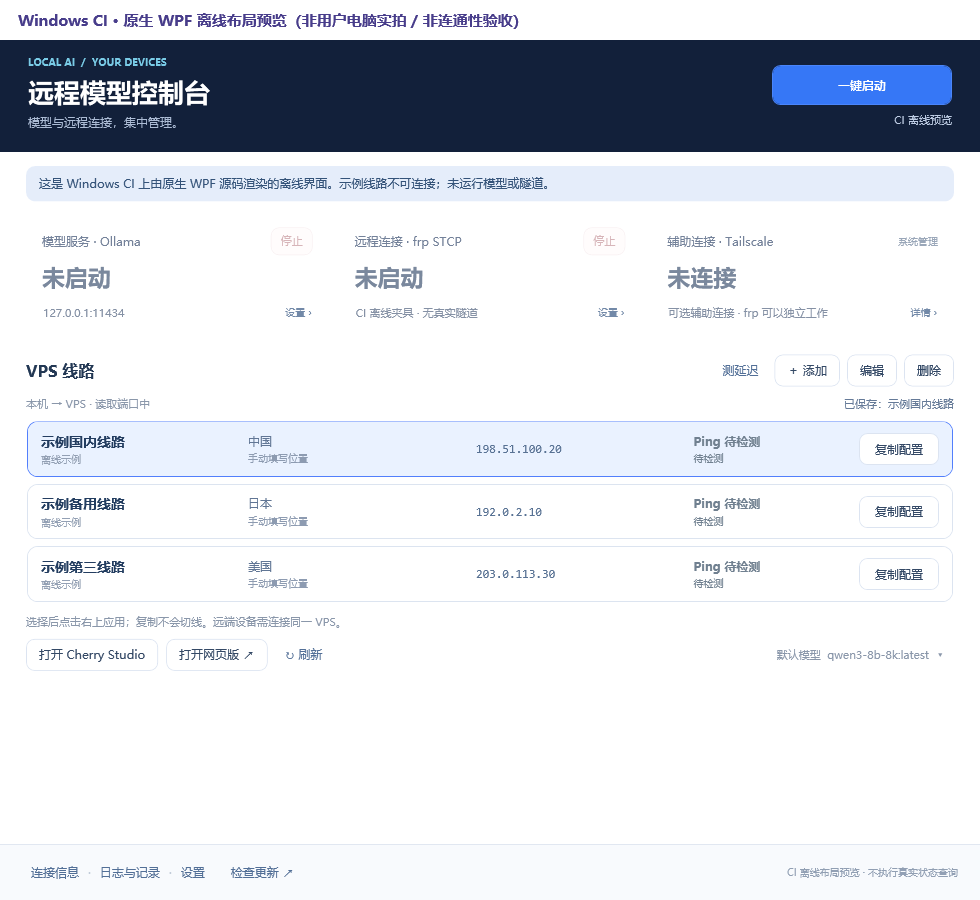
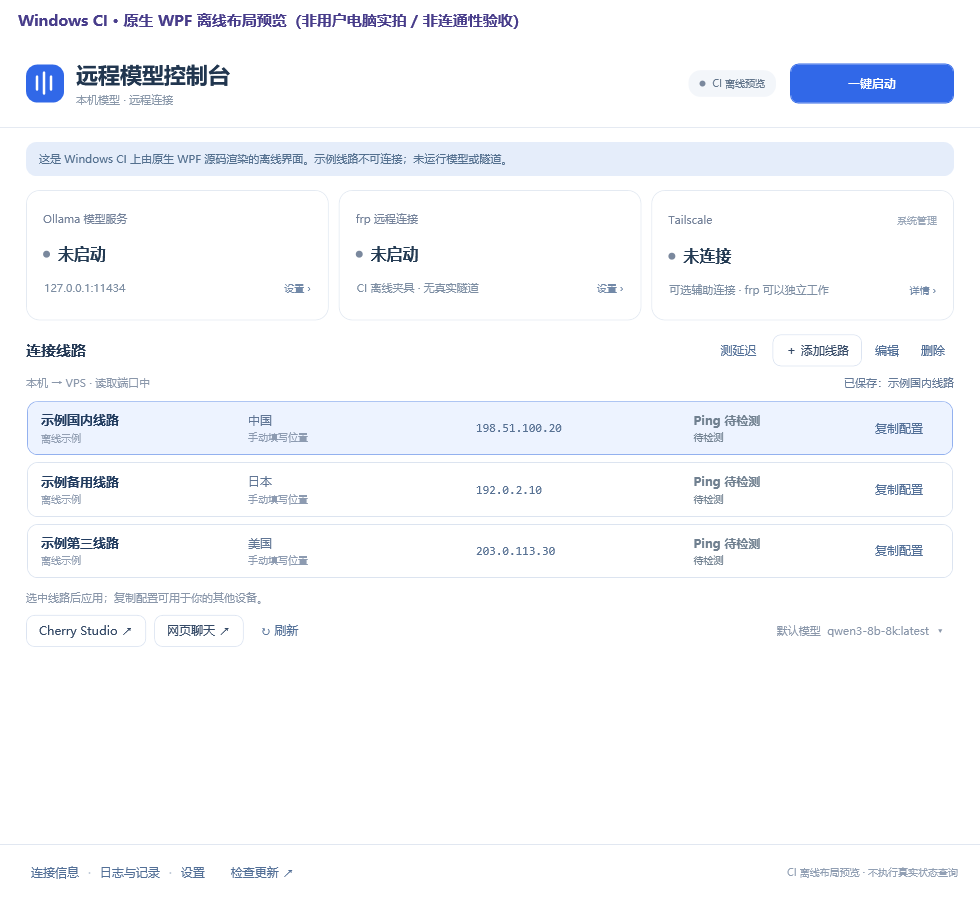
Refine console visuals and add verified one-click service stop

diff --git a/windows/local-model-console/LocalAI.UI.xaml b/windows/local-model-console/LocalAI.UI.xaml
@@ -1,6 +1,6 @@
 <Window xmlns="http://schemas.microsoft.com/winfx/2006/xaml/presentation" xmlns:x="http://schemas.microsoft.com/winfx/2006/xaml"
- Title="远程模型控制台" Width="1000" Height="760" MinWidth="900" MinHeight="650" WindowStartupLocation="CenterScreen"
- Background="#F3F6FB" FontFamily="Microsoft YaHei UI" FontSize="13" UseLayoutRounding="True">
+ Title="远程模型控制台" Width="1000" Height="740" MinWidth="900" MinHeight="650" WindowStartupLocation="CenterScreen"
+ Background="#F6F8FB" FontFamily="Microsoft YaHei UI" FontSize="13" UseLayoutRounding="True">
  <Window.Resources>
   <Style TargetType="Button">
    <Setter Property="HorizontalContentAlignment" Value="Center"/><Setter Property="Height" Value="32"/><Setter Property="Padding" Value="12,0"/><Setter Property="Cursor" Value="Hand"/>
@@ -8,36 +8,50 @@
    <Setter Property="Template"><Setter.Value><ControlTemplate TargetType="Button"><Border x:Name="Body" Background="{TemplateBinding Background}" BorderBrush="{TemplateBinding BorderBrush}" BorderThickness="1" CornerRadius="8" Padding="{TemplateBinding Padding}"><ContentPresenter HorizontalAlignment="{TemplateBinding HorizontalContentAlignment}" VerticalAlignment="Center"/></Border><ControlTemplate.Triggers><Trigger Property="IsMouseOver" Value="True"><Setter TargetName="Body" Property="Opacity" Value="0.75"/></Trigger><Trigger Property="IsEnabled" Value="False"><Setter TargetName="Body" Property="Opacity" Value="0.4"/></Trigger><Trigger Property="IsKeyboardFocused" Value="True"><Setter TargetName="Body" Property="BorderBrush" Value="#2563EB"/><Setter TargetName="Body" Property="BorderThickness" Value="2"/></Trigger></ControlTemplate.Triggers></ControlTemplate></Setter.Value></Setter>
   </Style>
   <Style x:Key="LinkButton" TargetType="Button" BasedOn="{StaticResource {x:Type Button}}"><Setter Property="Background" Value="Transparent"/><Setter Property="BorderBrush" Value="Transparent"/><Setter Property="Foreground" Value="#526F97"/><Setter Property="FontSize" Value="12"/><Setter Property="Padding" Value="8,0"/></Style>
-  <Style x:Key="StopControl" TargetType="Button" BasedOn="{StaticResource {x:Type Button}}"><Setter Property="Foreground" Value="#9C4650"/><Setter Property="Background" Value="#FFF8F8"/><Setter Property="BorderBrush" Value="#F0DDE0"/><Setter Property="FontSize" Value="11"/><Setter Property="Height" Value="28"/><Setter Property="Padding" Value="9,0"/></Style>
+  <Style x:Key="StopControl" TargetType="Button" BasedOn="{StaticResource {x:Type Button}}">
+   <Setter Property="Foreground" Value="#77869A"/><Setter Property="Background" Value="Transparent"/><Setter Property="BorderBrush" Value="Transparent"/><Setter Property="FontSize" Value="11"/><Setter Property="Height" Value="26"/><Setter Property="Padding" Value="9,0"/>
+   <Style.Triggers><Trigger Property="IsMouseOver" Value="True"><Setter Property="Background" Value="#FFF0F1"/><Setter Property="Foreground" Value="#BE4558"/></Trigger></Style.Triggers>
+  </Style>
+  <Style TargetType="TextBox"><Setter Property="Background" Value="White"/><Setter Property="BorderBrush" Value="#DCE4EF"/><Setter Property="BorderThickness" Value="1"/><Setter Property="Foreground" Value="#273B53"/><Setter Property="Padding" Value="10,7"/>
+   <Setter Property="Template"><Setter.Value><ControlTemplate TargetType="TextBox"><Border x:Name="InputBorder" Background="{TemplateBinding Background}" BorderBrush="{TemplateBinding BorderBrush}" BorderThickness="{TemplateBinding BorderThickness}" CornerRadius="8"><ScrollViewer x:Name="PART_ContentHost" Margin="{TemplateBinding Padding}"/></Border><ControlTemplate.Triggers><Trigger Property="IsKeyboardFocusWithin" Value="True"><Setter TargetName="InputBorder" Property="BorderBrush" Value="#6C97ED"/></Trigger></ControlTemplate.Triggers></ControlTemplate></Setter.Value></Setter>
+  </Style>
+  <Style TargetType="ComboBox"><Setter Property="Background" Value="White"/><Setter Property="BorderBrush" Value="#DCE4EF"/><Setter Property="Foreground" Value="#273B53"/><Setter Property="MinHeight" Value="36"/>
+   <Setter Property="Template"><Setter.Value><ControlTemplate TargetType="ComboBox"><Grid>
+    <Border x:Name="SelectBorder" CornerRadius="8" Background="{TemplateBinding Background}" BorderBrush="{TemplateBinding BorderBrush}" BorderThickness="1"><Grid><ContentPresenter Content="{TemplateBinding SelectionBoxItem}" ContentTemplate="{TemplateBinding SelectionBoxItemTemplate}" Margin="11,0,32,0" VerticalAlignment="Center" IsHitTestVisible="False"/><ToggleButton Focusable="False" IsChecked="{Binding IsDropDownOpen, RelativeSource={RelativeSource TemplatedParent}, Mode=TwoWay}" ClickMode="Press"><ToggleButton.Template><ControlTemplate TargetType="ToggleButton"><Border Background="Transparent"><Path Data="M 0,0 L 4,4 L 8,0" Stroke="#8393A7" StrokeThickness="1.5" HorizontalAlignment="Right" VerticalAlignment="Center" Margin="0,0,13,0"/></Border></ControlTemplate></ToggleButton.Template></ToggleButton></Grid></Border>
+    <Popup x:Name="PART_Popup" Placement="Bottom" IsOpen="{TemplateBinding IsDropDownOpen}" AllowsTransparency="True" Focusable="False" PopupAnimation="Fade"><Border Background="White" BorderBrush="#DCE4EF" BorderThickness="1" CornerRadius="9" Margin="0,4,0,0" Padding="4" MinWidth="{Binding ActualWidth, RelativeSource={RelativeSource TemplatedParent}}"><ScrollViewer MaxHeight="220" CanContentScroll="True"><ItemsPresenter KeyboardNavigation.DirectionalNavigation="Contained"/></ScrollViewer></Border></Popup>
+   </Grid><ControlTemplate.Triggers><Trigger Property="IsKeyboardFocusWithin" Value="True"><Setter TargetName="SelectBorder" Property="BorderBrush" Value="#6C97ED"/></Trigger><Trigger Property="IsEnabled" Value="False"><Setter Property="Opacity" Value="0.5"/></Trigger></ControlTemplate.Triggers></ControlTemplate></Setter.Value></Setter>
+  </Style>
+  <Style TargetType="ComboBoxItem"><Setter Property="Padding" Value="10,7"/><Setter Property="HorizontalContentAlignment" Value="Stretch"/><Setter Property="Template"><Setter.Value><ControlTemplate TargetType="ComboBoxItem"><Border x:Name="Option" Background="Transparent" Padding="{TemplateBinding Padding}" CornerRadius="6"><ContentPresenter/></Border><ControlTemplate.Triggers><Trigger Property="IsHighlighted" Value="True"><Setter TargetName="Option" Property="Background" Value="#F1F5FB"/></Trigger><Trigger Property="IsSelected" Value="True"><Setter TargetName="Option" Property="Background" Value="#EAF1FF"/><Setter Property="Foreground" Value="#2B60C5"/></Trigger></ControlTemplate.Triggers></ControlTemplate></Setter.Value></Setter></Style>
+
  </Window.Resources>
- <Grid><Grid.RowDefinitions><RowDefinition Height="112"/><RowDefinition Height="*"/><RowDefinition Height="56"/></Grid.RowDefinitions>
-  <Border Background="#12203A" Padding="28,16"><Grid><Grid.ColumnDefinitions><ColumnDefinition Width="*"/><ColumnDefinition Width="252"/></Grid.ColumnDefinitions>
-   <StackPanel><TextBlock Text="LOCAL AI  /  YOUR DEVICES" FontSize="10" FontWeight="Bold" Foreground="#79CBE6" Margin="0,0,0,7"/><TextBlock Text="远程模型控制台" FontSize="26" FontWeight="Bold" Foreground="White"/><TextBlock Text="模型与远程连接，集中管理。" Foreground="#ACBCD5" Margin="0,6,0,0" FontSize="12"/></StackPanel>
-   <StackPanel Grid.Column="1" HorizontalAlignment="Right" VerticalAlignment="Center"><Button x:Name="StartButton" Content="一键启动" Height="40" MinWidth="180" Background="#3677F6" BorderBrush="#4A85FA" Foreground="White" FontWeight="Bold" AutomationProperties.Name="一键启动模型与隧道"/><TextBlock x:Name="HeaderState" Text="正在检查服务" Foreground="#BECDE4" FontSize="11" TextAlignment="Right" TextWrapping="Wrap" MaxWidth="250" Margin="0,8,0,0"/></StackPanel>
+ <Grid><Grid.RowDefinitions><RowDefinition Height="88"/><RowDefinition Height="*"/><RowDefinition Height="56"/></Grid.RowDefinitions>
+  <Border Background="White" BorderBrush="#E5EAF2" BorderThickness="0,0,0,1" Padding="26,16"><Grid><Grid.ColumnDefinitions><ColumnDefinition Width="*"/><ColumnDefinition Width="Auto"/></Grid.ColumnDefinitions>
+   <StackPanel Orientation="Horizontal" VerticalAlignment="Center"><Border Width="38" Height="38" CornerRadius="11" Background="#3168E8" Margin="0,0,12,0"><Path Data="M 11,12 L 11,25 M 18,8 L 18,29 M 25,12 L 25,25" Stroke="White" StrokeThickness="2.5" StrokeStartLineCap="Round" StrokeEndLineCap="Round"/></Border><StackPanel><TextBlock Text="远程模型控制台" FontSize="22" FontWeight="SemiBold" Foreground="#21364F"/><TextBlock Text="本机模型 · 远程连接" Foreground="#8A98AA" Margin="0,4,0,0" FontSize="11"/></StackPanel></StackPanel>
+   <StackPanel Grid.Column="1" Orientation="Horizontal" VerticalAlignment="Center"><Border Background="#F3F6FA" CornerRadius="12" Padding="11,7" Margin="0,0,14,0" VerticalAlignment="Center"><StackPanel Orientation="Horizontal"><Ellipse x:Name="HeaderDot" Width="6" Height="6" Fill="#A6B1C1" Margin="0,0,7,0" VerticalAlignment="Center"/><TextBlock x:Name="HeaderState" Text="正在检查服务" Foreground="#64778D" FontSize="10" TextWrapping="Wrap" MaxWidth="195" VerticalAlignment="Center"/></StackPanel></Border><Button x:Name="StartButton" Content="一键启动" Height="40" MinWidth="164" Background="#3168E8" BorderBrush="#3168E8" Foreground="White" FontWeight="SemiBold" AutomationProperties.Name="一键启动模型与隧道"/></StackPanel>
   </Grid></Border>
   <ScrollViewer Grid.Row="1" VerticalScrollBarVisibility="Auto" HorizontalScrollBarVisibility="Disabled"><StackPanel Margin="26,14,26,10">
-   <Border x:Name="Banner" Background="#E5EDFA" CornerRadius="9" Padding="13,10" Margin="0,0,0,12"><StackPanel><TextBlock x:Name="BannerText" Text="正在读取本机服务状态…" Foreground="#345379" TextWrapping="Wrap" FontSize="12"/><ProgressBar x:Name="Progress" Height="3" Margin="0,8,0,0" IsIndeterminate="True" Visibility="Collapsed"/></StackPanel></Border>
+   <Border x:Name="Banner" Background="#EEF3FC" CornerRadius="10" Padding="13,10" Margin="0,0,0,14"><Grid><Grid.ColumnDefinitions><ColumnDefinition Width="*"/><ColumnDefinition Width="Auto"/></Grid.ColumnDefinitions><StackPanel><TextBlock x:Name="BannerText" Text="正在读取本机服务状态…" Foreground="#54708F" TextWrapping="Wrap" FontSize="11"/><ProgressBar x:Name="Progress" Height="3" Margin="0,8,0,0" IsIndeterminate="True" Visibility="Collapsed"/></StackPanel><StackPanel Grid.Column="1" Orientation="Horizontal" VerticalAlignment="Center" Margin="12,0,0,0"><Button x:Name="ResumeButton" Content="补齐启动" Style="{StaticResource LinkButton}" Height="28" Visibility="Collapsed"/><Button x:Name="GlobalStopButton" Content="停止当前服务" Style="{StaticResource StopControl}" Height="28" Visibility="Collapsed"/></StackPanel></Grid></Border>
    <UniformGrid Columns="3" Margin="-5,0,-5,14">
-    <Border Background="White" CornerRadius="12" Padding="16,14" Margin="5,0"><StackPanel><Grid><TextBlock Text="模型服务 · Ollama" Foreground="#74829A" FontSize="12" VerticalAlignment="Center"/><Button x:Name="StopOllamaButton" Content="停止" HorizontalAlignment="Right" Style="{StaticResource StopControl}" AutomationProperties.Name="停止模型服务" ToolTip="会中断本机与远端问答；点击后需确认。"/></Grid><TextBlock x:Name="OllamaState" Text="检查中" FontSize="23" FontWeight="Bold" Margin="0,7,0,7"/><Button x:Name="OllamaSettingsButton" Style="{StaticResource LinkButton}" Height="Auto" MinHeight="28" HorizontalContentAlignment="Stretch" Padding="0" ToolTip="设置模型服务端口" AutomationProperties.Name="设置模型服务端口"><Grid><Grid.ColumnDefinitions><ColumnDefinition Width="*"/><ColumnDefinition Width="Auto"/></Grid.ColumnDefinitions><TextBlock x:Name="OllamaDetail" Text="读取配置中" Foreground="#8591A5" FontSize="11" TextWrapping="Wrap"/><TextBlock Grid.Column="1" Text="设置 ›" Margin="6,0,0,0" VerticalAlignment="Center" FontSize="10" Foreground="#7289A8"/></Grid></Button></StackPanel></Border>
-    <Border Background="White" CornerRadius="12" Padding="16,14" Margin="5,0"><StackPanel><Grid><TextBlock Text="远程连接 · frp STCP" Foreground="#74829A" FontSize="12" VerticalAlignment="Center"/><Button x:Name="StopButton" Content="停止" HorizontalAlignment="Right" Style="{StaticResource StopControl}" AutomationProperties.Name="停止本项目隧道"/></Grid><TextBlock x:Name="TunnelState" Text="检查中" FontSize="23" FontWeight="Bold" Margin="0,7,0,7"/><Button x:Name="FrpSettingsButton" Style="{StaticResource LinkButton}" Height="Auto" MinHeight="28" HorizontalContentAlignment="Stretch" Padding="0" ToolTip="设置隧道服务端口" AutomationProperties.Name="设置隧道服务端口"><Grid><Grid.ColumnDefinitions><ColumnDefinition Width="*"/><ColumnDefinition Width="Auto"/></Grid.ColumnDefinitions><TextBlock x:Name="TunnelDetail" Text="等待读取" Foreground="#8591A5" FontSize="11" TextWrapping="Wrap"/><TextBlock Grid.Column="1" Text="设置 ›" Margin="6,0,0,0" VerticalAlignment="Center" FontSize="10" Foreground="#7289A8"/></Grid></Button></StackPanel></Border>
-    <Border Background="White" CornerRadius="12" Padding="16,14" Margin="5,0"><StackPanel><Grid Height="28"><TextBlock Text="辅助连接 · Tailscale" Foreground="#74829A" FontSize="12" VerticalAlignment="Center"/><TextBlock Text="系统管理" Foreground="#9AA7B9" FontSize="10" HorizontalAlignment="Right" VerticalAlignment="Center"/></Grid><TextBlock x:Name="TsState" Text="检查中" FontSize="23" FontWeight="Bold" Margin="0,7,0,7"/><Button x:Name="TailscaleInfoButton" Style="{StaticResource LinkButton}" Height="Auto" MinHeight="28" HorizontalContentAlignment="Stretch" Padding="0" ToolTip="查看 Tailscale 连接信息" AutomationProperties.Name="查看 Tailscale 连接信息"><Grid><Grid.ColumnDefinitions><ColumnDefinition Width="*"/><ColumnDefinition Width="Auto"/></Grid.ColumnDefinitions><TextBlock x:Name="TsDetail" Text="可选辅助连接" Foreground="#8591A5" FontSize="11" TextWrapping="Wrap"/><TextBlock Grid.Column="1" Text="详情 ›" Margin="6,0,0,0" VerticalAlignment="Center" FontSize="10" Foreground="#7289A8"/></Grid></Button></StackPanel></Border>
+    <Border Background="White" CornerRadius="13" BorderBrush="#E4EAF2" BorderThickness="1" Padding="16,15" Margin="5,0"><StackPanel><Grid><TextBlock Text="Ollama 模型服务" Foreground="#74829A" FontSize="11" VerticalAlignment="Center"/><Button x:Name="StopOllamaButton" Content="停止" HorizontalAlignment="Right" Style="{StaticResource StopControl}" AutomationProperties.Name="停止模型服务" ToolTip="会中断本机与远端问答；点击后需确认。"/></Grid><StackPanel Orientation="Horizontal" Margin="0,12,0,10"><Ellipse x:Name="OllamaDot" Width="7" Height="7" Fill="#B4BECD" VerticalAlignment="Center" Margin="0,0,8,0"/><TextBlock x:Name="OllamaState" Text="检查中" FontSize="16" FontWeight="SemiBold" Foreground="#243B53"/></StackPanel><Button x:Name="OllamaSettingsButton" Style="{StaticResource LinkButton}" Height="Auto" MinHeight="28" HorizontalContentAlignment="Stretch" Padding="0" ToolTip="设置模型服务端口" AutomationProperties.Name="设置模型服务端口"><Grid><Grid.ColumnDefinitions><ColumnDefinition Width="*"/><ColumnDefinition Width="Auto"/></Grid.ColumnDefinitions><TextBlock x:Name="OllamaDetail" Text="读取配置中" Foreground="#7D8EA3" FontSize="11" TextWrapping="Wrap"/><TextBlock Grid.Column="1" Text="设置 ›" Margin="6,0,0,0" VerticalAlignment="Center" FontSize="10" Foreground="#7289A8"/></Grid></Button></StackPanel></Border>
+    <Border Background="White" CornerRadius="13" BorderBrush="#E4EAF2" BorderThickness="1" Padding="16,15" Margin="5,0"><StackPanel><Grid><TextBlock Text="frp 远程连接" Foreground="#74829A" FontSize="11" VerticalAlignment="Center"/><Button x:Name="StopButton" Content="停止" HorizontalAlignment="Right" Style="{StaticResource StopControl}" AutomationProperties.Name="停止本项目隧道"/></Grid><StackPanel Orientation="Horizontal" Margin="0,12,0,10"><Ellipse x:Name="TunnelDot" Width="7" Height="7" Fill="#B4BECD" VerticalAlignment="Center" Margin="0,0,8,0"/><TextBlock x:Name="TunnelState" Text="检查中" FontSize="16" FontWeight="SemiBold" Foreground="#243B53"/></StackPanel><Button x:Name="FrpSettingsButton" Style="{StaticResource LinkButton}" Height="Auto" MinHeight="28" HorizontalContentAlignment="Stretch" Padding="0" ToolTip="设置隧道服务端口" AutomationProperties.Name="设置隧道服务端口"><Grid><Grid.ColumnDefinitions><ColumnDefinition Width="*"/><ColumnDefinition Width="Auto"/></Grid.ColumnDefinitions><TextBlock x:Name="TunnelDetail" Text="等待读取" Foreground="#7D8EA3" FontSize="11" TextWrapping="Wrap"/><TextBlock Grid.Column="1" Text="设置 ›" Margin="6,0,0,0" VerticalAlignment="Center" FontSize="10" Foreground="#7289A8"/></Grid></Button></StackPanel></Border>
+    <Border Background="White" CornerRadius="13" BorderBrush="#E4EAF2" BorderThickness="1" Padding="16,15" Margin="5,0"><StackPanel><Grid Height="28"><TextBlock Text="Tailscale" Foreground="#74829A" FontSize="11" VerticalAlignment="Center"/><TextBlock Text="系统管理" Foreground="#9AA7B9" FontSize="10" HorizontalAlignment="Right" VerticalAlignment="Center"/></Grid><StackPanel Orientation="Horizontal" Margin="0,12,0,10"><Ellipse x:Name="TsDot" Width="7" Height="7" Fill="#B4BECD" VerticalAlignment="Center" Margin="0,0,8,0"/><TextBlock x:Name="TsState" Text="检查中" FontSize="16" FontWeight="SemiBold" Foreground="#243B53"/></StackPanel><Button x:Name="TailscaleInfoButton" Style="{StaticResource LinkButton}" Height="Auto" MinHeight="28" HorizontalContentAlignment="Stretch" Padding="0" ToolTip="查看 Tailscale 连接信息" AutomationProperties.Name="查看 Tailscale 连接信息"><Grid><Grid.ColumnDefinitions><ColumnDefinition Width="*"/><ColumnDefinition Width="Auto"/></Grid.ColumnDefinitions><TextBlock x:Name="TsDetail" Text="可选辅助连接" Foreground="#7D8EA3" FontSize="11" TextWrapping="Wrap"/><TextBlock Grid.Column="1" Text="详情 ›" Margin="6,0,0,0" VerticalAlignment="Center" FontSize="10" Foreground="#7289A8"/></Grid></Button></StackPanel></Border>
    </UniformGrid>
-   <Grid Margin="0,0,0,10"><TextBlock Text="VPS 线路" FontSize="16" FontWeight="Bold" Foreground="#233854" VerticalAlignment="Center"/><StackPanel Orientation="Horizontal" HorizontalAlignment="Right"><Button x:Name="ProbeButton" Content="测延迟" Style="{StaticResource LinkButton}"/><Button x:Name="AddRouteButton" Content="＋ 添加" Margin="7,0,0,0"/><Button x:Name="EditRouteButton" Content="编辑" Margin="7,0,0,0"/><Button x:Name="DeleteRouteButton" Content="删除" Margin="7,0,0,0"/></StackPanel></Grid>
+   <Grid Margin="0,0,0,10"><TextBlock Text="连接线路" FontSize="15" FontWeight="SemiBold" Foreground="#233854" VerticalAlignment="Center"/><StackPanel Orientation="Horizontal" HorizontalAlignment="Right"><Button x:Name="ProbeButton" Content="测延迟" Style="{StaticResource LinkButton}"/><Button x:Name="AddRouteButton" Content="＋ 添加线路" Margin="7,0,0,0"/><Button x:Name="EditRouteButton" Content="编辑" Style="{StaticResource LinkButton}" Margin="4,0,0,0"/><Button x:Name="DeleteRouteButton" Content="删除" Style="{StaticResource LinkButton}" Margin="4,0,0,0"/></StackPanel></Grid>
    <Grid Margin="0,0,0,10"><TextBlock x:Name="ProbeHint" Text="本机 → VPS · 读取端口中" Foreground="#8A97AB" FontSize="11"/><TextBlock x:Name="CurrentRoute" Text="配置读取中" HorizontalAlignment="Right" Foreground="#657A98" FontSize="11"/></Grid>
    <ListBox x:Name="RouteList" MinHeight="74" MaxHeight="280" BorderThickness="0" Background="Transparent" ScrollViewer.HorizontalScrollBarVisibility="Disabled" AutomationProperties.Name="VPS线路列表">
-    <ListBox.ItemContainerStyle><Style TargetType="ListBoxItem"><Setter Property="HorizontalContentAlignment" Value="Stretch"/><Setter Property="Padding" Value="0"/><Setter Property="Margin" Value="0,0,0,7"/><Setter Property="Template"><Setter.Value><ControlTemplate TargetType="ListBoxItem"><Border x:Name="Row" CornerRadius="10" BorderBrush="#DCE4F0" Background="White" BorderThickness="1" Padding="13,10"><ContentPresenter/></Border><ControlTemplate.Triggers><Trigger Property="IsSelected" Value="True"><Setter TargetName="Row" Property="Background" Value="#EAF2FF"/><Setter TargetName="Row" Property="BorderBrush" Value="#527FFC"/></Trigger><Trigger Property="IsMouseOver" Value="True"><Setter TargetName="Row" Property="BorderBrush" Value="#83A7EE"/></Trigger></ControlTemplate.Triggers></ControlTemplate></Setter.Value></Setter></Style></ListBox.ItemContainerStyle>
+    <ListBox.ItemContainerStyle><Style TargetType="ListBoxItem"><Setter Property="HorizontalContentAlignment" Value="Stretch"/><Setter Property="Padding" Value="0"/><Setter Property="Margin" Value="0,0,0,7"/><Setter Property="Template"><Setter.Value><ControlTemplate TargetType="ListBoxItem"><Border x:Name="Row" CornerRadius="10" BorderBrush="#DCE4F0" Background="White" BorderThickness="1" Padding="13,10"><ContentPresenter/></Border><ControlTemplate.Triggers><Trigger Property="IsSelected" Value="True"><Setter TargetName="Row" Property="Background" Value="#EDF3FF"/><Setter TargetName="Row" Property="BorderBrush" Value="#93B1EF"/></Trigger><Trigger Property="IsMouseOver" Value="True"><Setter TargetName="Row" Property="BorderBrush" Value="#83A7EE"/></Trigger></ControlTemplate.Triggers></ControlTemplate></Setter.Value></Setter></Style></ListBox.ItemContainerStyle>
     <ListBox.ItemTemplate><DataTemplate><Grid><Grid.ColumnDefinitions><ColumnDefinition Width="1.2*"/><ColumnDefinition Width="1.8*"/><ColumnDefinition Width="1.5*"/><ColumnDefinition Width="1.1*"/><ColumnDefinition Width="86"/></Grid.ColumnDefinitions>
-     <StackPanel VerticalAlignment="Center" ToolTip="{Binding Name}"><TextBlock Text="{Binding Name}" FontSize="14" FontWeight="SemiBold" Foreground="#233D60" TextTrimming="CharacterEllipsis"/><TextBlock Text="{Binding Region}" Foreground="#93A0B4" FontSize="10" Margin="0,3,0,0" TextTrimming="CharacterEllipsis"/></StackPanel>
+     <StackPanel VerticalAlignment="Center" ToolTip="{Binding Name}"><TextBlock Text="{Binding Name}" FontSize="13" FontWeight="SemiBold" Foreground="#233D60" TextTrimming="CharacterEllipsis"/><TextBlock Text="{Binding Region}" Foreground="#93A0B4" FontSize="10" Margin="0,3,0,0" TextTrimming="CharacterEllipsis"/></StackPanel>
      <StackPanel Grid.Column="1" Orientation="Horizontal" VerticalAlignment="Center" ToolTip="{Binding LocationTip}"><Image Source="{Binding Flag}" Width="25" Height="17" Stretch="Uniform" Margin="0,0,8,0"/><StackPanel><TextBlock Text="{Binding CountryDisplay}" Foreground="#617695" FontSize="12"/><TextBlock Text="{Binding LocationDisplay}" Foreground="#8D9BB1" FontSize="10" MaxWidth="155" TextTrimming="CharacterEllipsis" Margin="0,3,0,0"/></StackPanel></StackPanel>
      <TextBlock Grid.Column="2" Text="{Binding Address}" FontFamily="Consolas" FontSize="12" Foreground="#587294" TextTrimming="CharacterEllipsis" VerticalAlignment="Center" ToolTip="{Binding Address}"/>
      <StackPanel Grid.Column="3" VerticalAlignment="Center" ToolTip="Ping/TCP 只表示网络探测，不等于问答可用。"><TextBlock Text="{Binding PingText}" Foreground="{Binding PingColor}" FontWeight="SemiBold" FontSize="12"/><TextBlock Text="{Binding LatencyText}" Foreground="{Binding LatencyColor}" FontSize="10" Margin="0,3,0,0"/></StackPanel>
-     <Button Grid.Column="4" Content="复制配置" Tag="{Binding}" Margin="6,0,0,0" ToolTip="复制这条线路的 frpc visitor TOML；包含私密连接密钥。" AutomationProperties.Name="复制此线路配置"/>
+     <Button Grid.Column="4" Content="复制配置" Style="{StaticResource LinkButton}" Tag="{Binding}" Margin="6,0,0,0" ToolTip="复制这条线路的 frpc visitor TOML；包含私密连接密钥。" AutomationProperties.Name="复制此线路配置"/>
     </Grid></DataTemplate></ListBox.ItemTemplate>
    </ListBox>
-   <TextBlock Text="选择后点击右上应用；复制不会切线。远端设备需连接同一 VPS。" Foreground="#8A97AB" FontSize="11" Margin="0,5,0,10"/>
-   <Grid><StackPanel Orientation="Horizontal"><Button x:Name="CherryButton" Content="打开 Cherry Studio" Height="32" Margin="0,0,8,0"/><Button x:Name="WebButton" Content="打开网页版 ↗" Height="32"/><Button x:Name="RefreshButton" Content="↻ 刷新" Style="{StaticResource LinkButton}" Margin="8,0,0,0"/></StackPanel><Button x:Name="ModelButton" Style="{StaticResource LinkButton}" HorizontalAlignment="Right" MaxWidth="285" ToolTip="选择本项目默认模型" AutomationProperties.Name="选择项目默认模型"><TextBlock x:Name="ModelText" Text="默认模型读取中" VerticalAlignment="Center" Foreground="#8A97AB" FontSize="11" MaxWidth="260" TextTrimming="CharacterEllipsis"/></Button></Grid>
+   <TextBlock Text="选中线路后应用；复制配置可用于你的其他设备。" Foreground="#8A97AB" FontSize="11" Margin="0,5,0,10"/>
+   <Grid><StackPanel Orientation="Horizontal"><Button x:Name="CherryButton" Content="Cherry Studio ↗" Height="32" Margin="0,0,8,0"/><Button x:Name="WebButton" Content="网页聊天 ↗" Height="32"/><Button x:Name="RefreshButton" Content="↻ 刷新" Style="{StaticResource LinkButton}" Margin="8,0,0,0"/></StackPanel><Button x:Name="ModelButton" Style="{StaticResource LinkButton}" HorizontalAlignment="Right" MaxWidth="285" ToolTip="选择本项目默认模型" AutomationProperties.Name="选择项目默认模型"><TextBlock x:Name="ModelText" Text="默认模型读取中" VerticalAlignment="Center" Foreground="#8A97AB" FontSize="11" MaxWidth="260" TextTrimming="CharacterEllipsis"/></Button></Grid>
    <TextBox x:Name="History" Visibility="Collapsed"/>
   </StackPanel></ScrollViewer>
-  <Border Grid.Row="2" BorderBrush="#E1E7F1" BorderThickness="0,1,0,0" Background="#F8FAFD" Padding="22,10"><Grid><StackPanel Orientation="Horizontal"><Button x:Name="ConnectionButton" Content="连接信息" Style="{StaticResource LinkButton}"/><TextBlock Text="·" VerticalAlignment="Center" Foreground="#C2CCDA"/><Button x:Name="HistoryButton" Content="日志与记录" Style="{StaticResource LinkButton}"/><TextBlock Text="·" VerticalAlignment="Center" Foreground="#C2CCDA"/><Button x:Name="SettingsButton" Content="设置" Style="{StaticResource LinkButton}"/><Button x:Name="UpdateButton" Content="检查更新 ↗" Style="{StaticResource LinkButton}" Margin="8,0,0,0"/></StackPanel><TextBlock x:Name="CheckedAt" Text="关窗保留服务 · 1.1.1" HorizontalAlignment="Right" VerticalAlignment="Center" FontSize="10" Foreground="#92A0B5"/></Grid></Border>
+  <Border Grid.Row="2" BorderBrush="#E1E7F1" BorderThickness="0,1,0,0" Background="White" Padding="22,10"><Grid><StackPanel Orientation="Horizontal"><Button x:Name="ConnectionButton" Content="连接信息" Style="{StaticResource LinkButton}"/><TextBlock Text="·" VerticalAlignment="Center" Foreground="#C2CCDA"/><Button x:Name="HistoryButton" Content="日志与记录" Style="{StaticResource LinkButton}"/><TextBlock Text="·" VerticalAlignment="Center" Foreground="#C2CCDA"/><Button x:Name="SettingsButton" Content="设置" Style="{StaticResource LinkButton}"/><Button x:Name="UpdateButton" Content="检查更新 ↗" Style="{StaticResource LinkButton}" Margin="8,0,0,0"/></StackPanel><TextBlock x:Name="CheckedAt" Text="关窗保留服务 · 1.1.2" HorizontalAlignment="Right" VerticalAlignment="Center" FontSize="10" Foreground="#92A0B5"/></Grid></Border>
  </Grid>
 </Window>

diff --git a/windows/local-model-console/LocalAI-Control.cs b/windows/local-model-console/LocalAI-Control.cs
@@ -25,7 +25,7 @@ using System.Windows.Threading;
 
 [assembly: AssemblyTitle("Local AI Control")]
 [assembly: AssemblyProduct("远程模型控制台")]
-[assembly: AssemblyVersion("1.1.1.0")]
+[assembly: AssemblyVersion("1.1.2.0")]
 [assembly: System.Runtime.Versioning.TargetFramework(".NETFramework,Version=v4.8")]
 
 namespace LocalAIControl {
@@ -131,11 +131,11 @@ namespace LocalAIControl {
    Window=(Window)XamlReader.Parse(Program.ResourceText("LocalAI.UI.xaml"));
    LoadRoutes(); List.ItemsSource=routes;
    List.SelectionChanged+=(s,e)=> {if(!busy)UpdateStatusBanner();UpdateButtons();};
-   Button("StartButton").Click+=async(s,e)=>await Action("Start");
+   Button("StartButton").Click+=async(s,e)=>{string action=PrimaryActionName;if(action!="StopAll"||ConfirmStop(action))await Action(action);};
+   Button("ResumeButton").Click+=async(s,e)=>await Action("Start");
+   Button("GlobalStopButton").Click+=async(s,e)=>{if(ConfirmStop("StopAll"))await Action("StopAll");};
    Button("StopButton").Click+=async(s,e)=>await Action("Stop");
-   Button("StopOllamaButton").Click+=async(s,e)=>{
-    if(MessageBox.Show(Window,"停止模型服务将中断这台电脑和远端设备的问答。仅停止已确认归属的模型监听，frp 与 Tailscale 保持运行。继续吗？","停止模型服务",MessageBoxButton.OKCancel,MessageBoxImage.Warning,MessageBoxResult.Cancel)==MessageBoxResult.OK)await Action("StopOllama");
-   };
+   Button("StopOllamaButton").Click+=async(s,e)=>{if(ConfirmStop("StopOllama"))await Action("StopOllama");};
    Button("ConnectionButton").Click+=(s,e)=>{try{ConnectionWindow();}catch{Banner("连接偏好无法读取，请检查面板设置文件。","#FFF0D8");}};
    Button("HistoryButton").Click+=(s,e)=>HistoryWindow();
    Button("SettingsButton").Click+=(s,e)=>SettingsWindow();
@@ -192,7 +192,7 @@ namespace LocalAIControl {
   void EditRoute(bool edit) {
    if(busy||(edit&&Selected==null)) return;
    Route old=edit?Selected:null;
-   var dialog=new RouteDialog(old);dialog.Owner=Window;
+   var dialog=new RouteDialog(old);dialog.Owner=Window;dialog.Resources=Window.Resources;
    while(dialog.ShowDialog()==true) {
     Route route=dialog.Result;
     try {
@@ -203,7 +203,7 @@ namespace LocalAIControl {
      if(old!=null)routes.Remove(old);routes.Insert(index,route);
      try {SaveRoutes(true);}catch {routes.Clear();foreach(var r in previous)routes.Add(r);throw;}
      List.SelectedItem=route;List.ScrollIntoView(route);lastProbe=DateTime.MinValue;History((edit?"已编辑线路：":"已添加线路：")+route.Name+"。实际配置在点击启动后才修改。");return;
-    }catch(Exception ex){MessageBox.Show(Window,ex.Message,"线路未保存",MessageBoxButton.OK,MessageBoxImage.Information);dialog=new RouteDialog(route);dialog.Owner=Window;}
+    }catch(Exception ex){MessageBox.Show(Window,ex.Message,"线路未保存",MessageBoxButton.OK,MessageBoxImage.Information);dialog=new RouteDialog(route);dialog.Owner=Window;dialog.Resources=Window.Resources;}
    }
   }
   void DeleteRoute() {
@@ -330,13 +330,13 @@ namespace LocalAIControl {
    string address=Selected==null?null:Selected.Address;
    if(action=="Start"&&address==null)return;
    busy=true;actionError="";UpdateButtons();Control<ProgressBar>("Progress").Visibility=Visibility.Visible;
-   Banner(action=="Start"?"正在准备所选线路与服务，请稍候…":action=="Stop"?"正在停止本项目隧道…":action=="StopOllama"?"正在停止已确认归属的模型监听…":"正在打开 Cherry Studio…","#E5EDFA");History("开始操作："+action);
+   Banner(action=="Start"?"正在准备所选线路与服务，请稍候…":action=="StopAll"?"正在停止模型 API 与本项目隧道…":action=="Stop"?"正在停止本项目隧道…":action=="StopOllama"?"正在停止已确认归属的模型监听…":"正在打开 Cherry Studio…","#E5EDFA");History("开始操作："+action);
    try {
     var result=await Request(action,address);
     if(D(result,"Status")!=null)Apply(D(result,"Status"));
     string message=S(result,"Message");History(message);
     if(!B(result,"Success")){actionError=message;Banner(message,"#FCE8E8");}
-    else if(action=="Stop"||action=="StopOllama")Banner(message,"#E5EDFA");
+    else if(action=="Stop"||action=="StopOllama"||action=="StopAll")Banner(message,"#E5EDFA");
    }catch(Exception ex){actionError=ex.Message;Banner(actionError,"#FCE8E8");History(actionError);}
    finally{busy=false;Control<ProgressBar>("Progress").Visibility=Visibility.Collapsed;UpdateButtons();}
   }
@@ -344,15 +344,17 @@ namespace LocalAIControl {
    state=value;string green="#168565",gray="#7A889D",amber="#B47719";
    bool online=B(value,"OllamaOnline"),ts=B(value,"TailscaleConnected");var tunnel=D(value,"Tunnel");
    bool ready=S(tunnel,"State")=="ready";int count=Convert.ToInt32(value["FrpcCount"]);
-   Text("OllamaState").Text=online?"在线":"未启动";Text("OllamaState").Foreground=Brush(online?green:gray);
+   Text("OllamaState").Text=online?"在线":B(value,"OllamaListening")?"待检查":"未启动";Text("OllamaState").Foreground=Brush("#243B53");Control<System.Windows.Shapes.Ellipse>("OllamaDot").Fill=Brush(online?green:B(value,"OllamaListening")?amber:gray);
    object reported;int reportedPort=value.TryGetValue("OllamaPort",out reported)?Convert.ToInt32(reported):ModelPort;
    Text("OllamaDetail").Text="127.0.0.1:"+reportedPort+(online&&!B(value,"ModelInstalled")?" · 默认模型未安装":"");
-   Text("TunnelState").Text=S(tunnel,"Text");Text("TunnelState").Foreground=Brush(ready?green:count>0?amber:gray);Text("TunnelDetail").Text=S(tunnel,"Detail");
-   Text("TsState").Text=ts?"已连接":"未连接";Text("TsState").Foreground=Brush(ts?green:gray);Text("TsDetail").Text=ts?S(value,"TailscaleIP")+" · 仅网络状态":"可选辅助连接 · frp 可以独立工作";
+   Text("TunnelState").Text=S(tunnel,"Text");Text("TunnelState").Foreground=Brush("#243B53");Control<System.Windows.Shapes.Ellipse>("TunnelDot").Fill=Brush(ready?green:count>0?amber:gray);Text("TunnelDetail").Text=S(tunnel,"Detail");
+   Text("TsState").Text=ts?"已连接":"未连接";Text("TsState").Foreground=Brush("#243B53");Control<System.Windows.Shapes.Ellipse>("TsDot").Fill=Brush(ts?green:gray);Text("TsDetail").Text=ts?S(value,"TailscaleIP")+" · 仅网络状态":"可选辅助连接 · frp 可以独立工作";
    var current=routes.FirstOrDefault(r=>SameAddress(r.Address,S(value,"Server")));Text("CurrentRoute").Text="已保存："+(current==null?S(value,"Server"):current.Name);
    Text("ModelText").Text="默认模型  "+S(value,"Model")+"  ▾";Text("CheckedAt").Text="最近检查 "+DateTime.Now.ToString("HH:mm:ss")+" · 15 秒刷新 · 关窗保留服务";
    if(!routeInitialized){routeInitialized=true;List.SelectedItem=current??routes.FirstOrDefault();}
    Text("HeaderState").Text=online&&ready?(B(value,"ModelInstalled")?"模型与隧道已就绪":"服务在线 · 默认模型未安装"):online?(count>0?"Ollama 在线 · 隧道待就绪":"Ollama 在线 · 隧道未启动"):ready?"隧道已注册 · Ollama 离线":count>0?"隧道连接中 · Ollama 离线":"等待启动";
+   if(!online&&B(value,"OllamaListening"))Text("HeaderState").Text="模型端口待检查";
+   Control<System.Windows.Shapes.Ellipse>("HeaderDot").Fill=Brush(online&&ready?green:AnyServiceRunning?amber:gray);
    UpdateStatusBanner();
    UpdateButtons();
   }
@@ -360,27 +362,37 @@ namespace LocalAIControl {
    if(state==null||!String.IsNullOrEmpty(actionError))return;
    string server=S(state,"Server");var current=routes.FirstOrDefault(r=>SameAddress(r.Address,server));string currentName=current==null?server:current.Name;
    if(Selected!=null&&!SameAddress(Selected.Address,server)) {
-    Banner("当前线路："+currentName+"（已保存配置）。已选择 "+Selected.Name+"，尚未应用；点击“应用并启动”后切线。","#E5EDFA");return;
+    Banner("当前线路："+currentName+"（已保存配置）。已选择 "+Selected.Name+"，尚未应用；点击“应用并切线”后生效。","#E5EDFA");return;
    }
    bool online=B(state,"OllamaOnline"),ready=S(D(state,"Tunnel"),"State")=="ready",installed=B(state,"ModelInstalled");int count=Convert.ToInt32(state["FrpcCount"]);
    if(online&&ready) {
     if(installed)Banner("Ollama API 在线，默认模型已安装；当前线路 "+currentName+" 的隧道已注册。通过 frp 连接的远端设备仍需运行同一线路的 visitor。","#E0F3EB");
     else Banner("Ollama API 在线，当前线路 "+currentName+" 的隧道已注册；默认模型 "+S(state,"Model")+" 尚未安装。请使用已安装模型或更新默认模型设置。","#FFF0D8");
-   }else if(ready)Banner("当前线路 "+currentName+" 的隧道已注册，但 Ollama API 未响应，请检查本机模型服务。","#FFF0D8");
+   }else if(ready)Banner("当前线路 "+currentName+" 的隧道已注册，模型尚未响应。可点“补齐启动”准备模型，或停止当前服务。","#FFF0D8");
    else if(count>0)Banner("当前线路 "+currentName+" 的隧道进程已运行，等待注册或需要检查；进程运行不代表远端已连通。"+(online&&!installed?"默认模型尚未安装。":""),"#FFF0D8");
-   else Banner("选择一条线路，点击“一键启动”，自动准备 Ollama 与 frp 隧道。"+(online&&!installed?"Ollama API 在线，但默认模型尚未安装。":""),"#E5EDFA");
+   else if(B(state,"OllamaListening")&&!online)Banner("模型端口已有监听，但 API 尚未响应；请核对原模型程序，避免重复启动。","#FFF0D8");
+   else if(online)Banner("模型 API 在线，远程隧道尚未启动。点“补齐启动”建立连接，或一键停止服务。"+(!installed?"默认模型尚未安装。":""),"#E5EDFA");
+   else Banner("选择一条线路，点击“一键启动”，准备模型与远程连接。","#E5EDFA");
   }
+  bool AnyServiceRunning {get{return state!=null&&(B(state,"OllamaOnline")||B(state,"OllamaListening")||Convert.ToInt32(state["FrpcCount"])>0);}}
+  bool PendingRoute {get{return state!=null&&Selected!=null&&!SameAddress(Selected.Address,S(state,"Server"));}}
+  string PrimaryActionName {get{return PendingRoute?"Start":AnyServiceRunning?"StopAll":"Start";}}
   void UpdateButtons() {
-   foreach(string name in new[]{"StartButton","StopButton","CherryButton","RefreshButton","AddRouteButton","EditRouteButton","DeleteRouteButton","StopOllamaButton","SettingsButton","WebButton","ModelButton","OllamaSettingsButton","FrpSettingsButton","TailscaleInfoButton"})Button(name).IsEnabled=!busy;
-   List.IsEnabled=!busy;Button("StartButton").IsEnabled=!busy&&state!=null&&Selected!=null;
-   Button("StopButton").IsEnabled=!busy&&state!=null&&Convert.ToInt32(state["FrpcCount"])>0;
+   foreach(string name in new[]{"StartButton","StopButton","CherryButton","RefreshButton","AddRouteButton","EditRouteButton","DeleteRouteButton","StopOllamaButton","SettingsButton","WebButton","ModelButton","OllamaSettingsButton","FrpSettingsButton","TailscaleInfoButton","ResumeButton","GlobalStopButton"})Button(name).IsEnabled=!busy;
+   List.IsEnabled=!busy;Button("StartButton").IsEnabled=!busy&&state!=null&&(AnyServiceRunning||Selected!=null);
+   bool tunnelRunning=state!=null&&Convert.ToInt32(state["FrpcCount"])>0;
+   Button("StopButton").IsEnabled=!busy&&tunnelRunning;Button("StopButton").Visibility=tunnelRunning?Visibility.Visible:Visibility.Hidden;
    Button("StopOllamaButton").IsEnabled=!busy&&state!=null&&B(state,"OllamaCanStop");
+   Button("StopOllamaButton").Visibility=state!=null&&(B(state,"OllamaOnline")||B(state,"OllamaListening")||B(state,"OllamaCanStop"))?Visibility.Visible:Visibility.Hidden;
    Button("StopOllamaButton").ToolTip=state==null?"正在确认模型监听归属":S(state,"OllamaStopReason");
    Button("RefreshButton").IsEnabled=!busy&&!checking;Button("EditRouteButton").IsEnabled=!busy&&Selected!=null;Button("DeleteRouteButton").IsEnabled=!busy&&Selected!=null;
-   if(Selected==null)Button("StartButton").Content="先选择线路";
-   else if(state!=null&&!SameAddress(Selected.Address,S(state,"Server")))Button("StartButton").Content="应用并启动";
-   else if(state!=null&&B(state,"OllamaOnline")&&Convert.ToInt32(state["FrpcCount"])>0)Button("StartButton").Content="检查运行";
-   else Button("StartButton").Content="一键启动";
+   bool stop=PrimaryActionName=="StopAll";
+   Button("StartButton").Content=PendingRoute?"应用并切线":stop?"一键停止":Selected==null?"先选择线路":"一键启动";
+   Button("StartButton").Background=Brush(stop?"#30465F":"#3168E8");Button("StartButton").BorderBrush=Button("StartButton").Background;
+   Button("StartButton").ToolTip=stop?"停止本项目隧道和当前端口已确认的模型服务":"准备模型与所选线路";
+   System.Windows.Automation.AutomationProperties.SetName(Button("StartButton"),stop?"一键停止模型与隧道":PendingRoute?"应用并切线":"一键启动模型与隧道");
+   Button("GlobalStopButton").Visibility=AnyServiceRunning&&PendingRoute?Visibility.Visible:Visibility.Collapsed;
+   Button("ResumeButton").Visibility=AnyServiceRunning&&!PendingRoute&&Selected!=null&&!(B(state,"OllamaOnline")&&tunnelRunning)?Visibility.Visible:Visibility.Collapsed;
   }
   void Banner(string text,string color){Text("BannerText").Text=text;Control<Border>("Banner").Background=Brush(color);}
   void History(string text){if(String.IsNullOrEmpty(text))return;var box=Control<TextBox>("History");box.AppendText("["+DateTime.Now.ToString("HH:mm:ss")+"] "+text+Environment.NewLine);box.ScrollToEnd();}

diff --git a/windows/local-model-console/PanelWindows.cs b/windows/local-model-console/PanelWindows.cs
@@ -93,6 +93,18 @@ namespace LocalAIControl {
   }
   Button SmallButton(string label){return new Button{Content=label,Padding=new Thickness(14,6,14,6),MinHeight=32,Margin=new Thickness(0,0,8,0)};}
   TextBlock Paragraph(string text,bool bold=false){return new TextBlock{Text=text,TextWrapping=TextWrapping.Wrap,Foreground=Brush("#4C6280"),FontWeight=bold?FontWeights.SemiBold:FontWeights.Normal,Margin=new Thickness(0,0,0,12)};}
+  Window BuildStopDialog(string action) {
+   bool all=action=="StopAll";var dialog=SmallWindow("停止服务",320);dialog.MinHeight=0;dialog.MinWidth=440;dialog.Width=480;dialog.Height=320;dialog.ResizeMode=ResizeMode.NoResize;dialog.Background=Brushes.White;
+   var layout=new Grid{Margin=new Thickness(26)};layout.RowDefinitions.Add(new RowDefinition{Height=new GridLength(1,GridUnitType.Star)});layout.RowDefinitions.Add(new RowDefinition{Height=GridLength.Auto});
+   var body=new StackPanel();body.Children.Add(new TextBlock{Text=all?"停止模型与远程连接？":"停止模型服务？",FontSize=21,FontWeight=FontWeights.SemiBold,Foreground=Brush("#243B53"),Margin=new Thickness(0,0,0,12)});
+   body.Children.Add(Paragraph("正在使用这个模型端口的本机和远端问答将中断。"));
+   var scope=new StackPanel{Margin=new Thickness(13,10,13,10)};scope.Children.Add(new TextBlock{Text="Ollama 模型 API  ·  端口 "+ModelPort,Foreground=Brush("#526B86"),FontSize=12,Margin=new Thickness(0,0,0,6)});
+   scope.Children.Add(new TextBlock{Text=all?"frp 远程连接  ·  本项目隧道":"frp 远程连接继续运行",Foreground=Brush("#526B86"),FontSize=12});body.Children.Add(new Border{Background=Brush("#F6F8FC"),CornerRadius=new CornerRadius(9),Child=scope});
+   body.Children.Add(new TextBlock{Text="Tailscale 由系统管理。重新启动后可继续连接。",Foreground=Brush("#8A98AA"),FontSize=11,Margin=new Thickness(0,11,0,0)});layout.Children.Add(body);
+   var row=new StackPanel{Orientation=Orientation.Horizontal,HorizontalAlignment=HorizontalAlignment.Right,Margin=new Thickness(0,16,0,0)};var cancel=SmallButton("取消");cancel.IsCancel=true;cancel.IsDefault=true;cancel.MinWidth=76;var confirm=SmallButton(all?"停止服务":"停止模型");confirm.Background=Brush("#C95365");confirm.BorderBrush=confirm.Background;confirm.Foreground=Brushes.White;confirm.MinWidth=96;confirm.Margin=new Thickness(0);
+   cancel.Name="CancelStopButton";confirm.Name="ConfirmStopButton";NameScope.SetNameScope(dialog,new NameScope());dialog.RegisterName(cancel.Name,cancel);dialog.RegisterName(confirm.Name,confirm);cancel.Click+=(s,e)=>dialog.DialogResult=false;confirm.Click+=(s,e)=>dialog.DialogResult=true;row.Children.Add(cancel);row.Children.Add(confirm);Grid.SetRow(row,1);layout.Children.Add(row);dialog.Content=layout;dialog.ContentRendered+=(s,e)=>cancel.Focus();return dialog;
+  }
+  bool ConfirmStop(string action){if(busy)return false;try{return BuildStopDialog(action).ShowDialog()==true;}catch{Banner("无法读取停止范围，请先检查模型端口设置；本次未停止服务。","#FFF0D8");return false;}}
   void ConnectionWindow() {
    var dialog=SmallWindow("连接信息",415);var body=new StackPanel{Margin=new Thickness(24)};
    body.Children.Add(Paragraph("这台 Windows",true));body.Children.Add(Paragraph(ModelUrl+"  ·  Ollama\n"+ModelUrl+"/v1  ·  OpenAI 兼容"));

diff --git a/windows/local-model-console/VALIDATION.md b/windows/local-model-console/VALIDATION.md
@@ -55,3 +55,13 @@ Windows 11 x64（10.0.26100），Windows PowerShell 5.1.26100.4652，系统 .NET
 本机可见窗口从实际Ollama API读取10个已安装模型，列表保持当前qwen3-8b-8k:latest选择。实际点击保存当前默认模型后，弹窗关闭并刷新；model-settings.json SHA256前后相同，没有改为其他模型。Ollama卡片点击打开端口设置并自动聚焦选中11434；frp聚焦服务端端口，Tailscale只显示详情/复制IP。快捷入口取消后保留配置。主界面最终仍显示原HHost/三丰云/阿里云，模型在线、旧frpc进程继续运行；本次未主动启停服务、切线、下载或生成。
 
 默认模型是本项目启动辅助的选择，不能把它说成强制修改Cherry或远端客户端请求中的模型；已有profiles/context参数仍保留，不宣称保存默认名就改变已加载模型上下文。离线时不推断已安装模型为空，指引修正端口/启动后刷新。
+
+## 2026-11-19 · 1.1.2 启停与浅色界面
+
+407项Windows检查通过（原355项加StopAll29、停止UI16、原生停止夹具7）。StopAll覆盖两项运行、单项运行、已停、停止失败、未知监听、查询失败、托盘重启、新隧道与无效端口；每项实际状态决定结果，不盲目重试。原生夹具真实编译、运行两个临时进程与回环临时监听，核验CIM/路径/配置归属并一并停止，保持同名无关进程；无真实模型权重、真实frpc或私人配置。
+
+可见窗口验收在观察到本机模型与隧道均已停止之后进行：实际点击一键启动，原HHost隧道注册且Ollama API上线，主按钮切一键停止；GET /api/ps确认0个已加载模型。打开同风格确认窗口，默认焦点取消，回车取消后两个服务继续运行。再次打开确认，显式点击停止后，真实backend Status确认OllamaOnline=false、OllamaListening=false、FrpcCount=0、TailscaleConnected=true，界面回到一键启动。此次实际执行了一轮启动/停止，无推理/下载，最终保持验收前观察到的停止状态；model-settings/frpc/panel偏好文件在程序升级中没有改写。
+
+视觉验收：浅色顶栏/小状态点/中性文字；运行卡片的停止按钮无粉框；停止确认窗口列明模型端口和隧道范围，默认取消。原生窗实际显示HHost、三丰云、阿里云和默认qwen3-8b-8k:latest。项目选择、复制TOML、端口/模型选择和日志入口保留。输入框、模型下拉和线路编辑复用统一样式。仓库截图仍是明确标注的离线WPF布局渲染，非真实节点截图。
+
+仍未验收：Mac原生整合、远端设备问答、本版多VPS重新切线、已加载模型runner与GPU释放、签名/全新机器安装。停止仅管理可确认的API监听与项目frpc，不能把端口已停说成所有模型子进程和显存都已释放。
